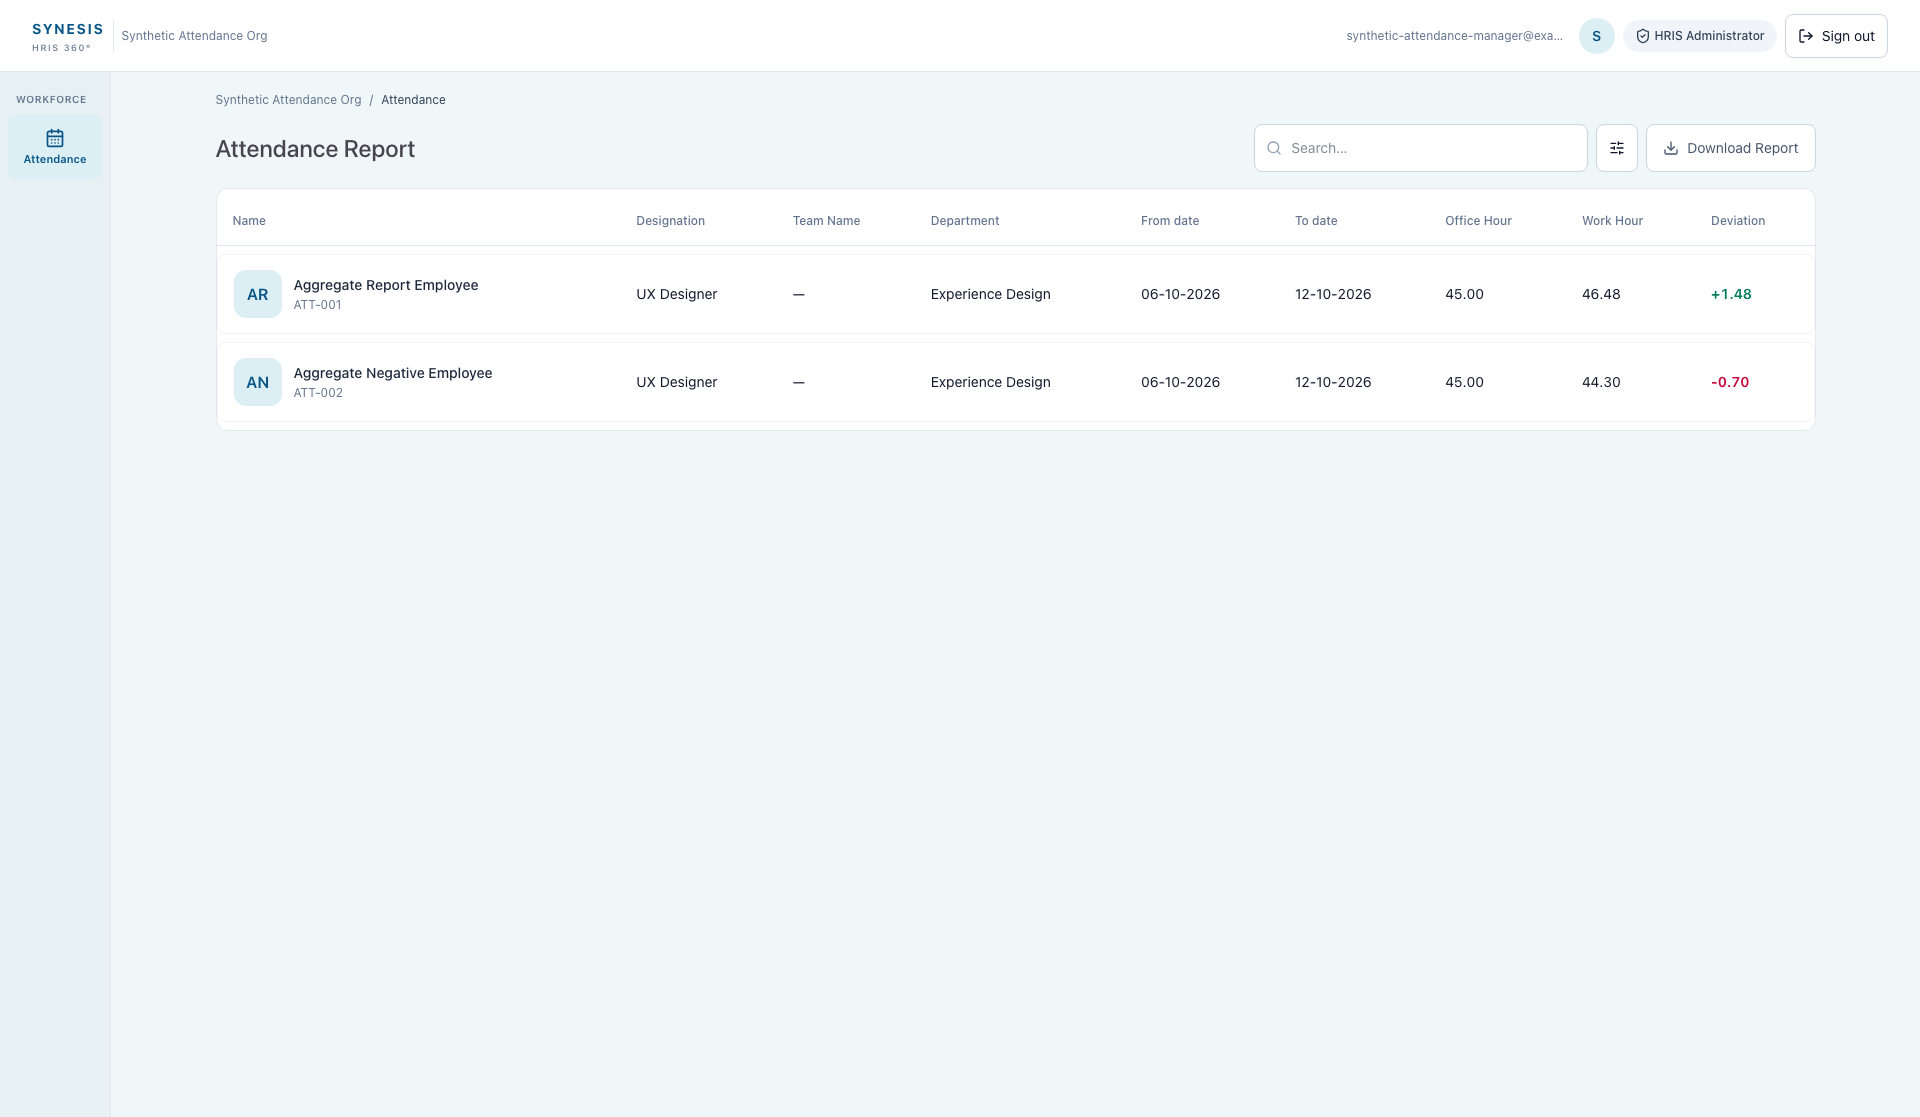
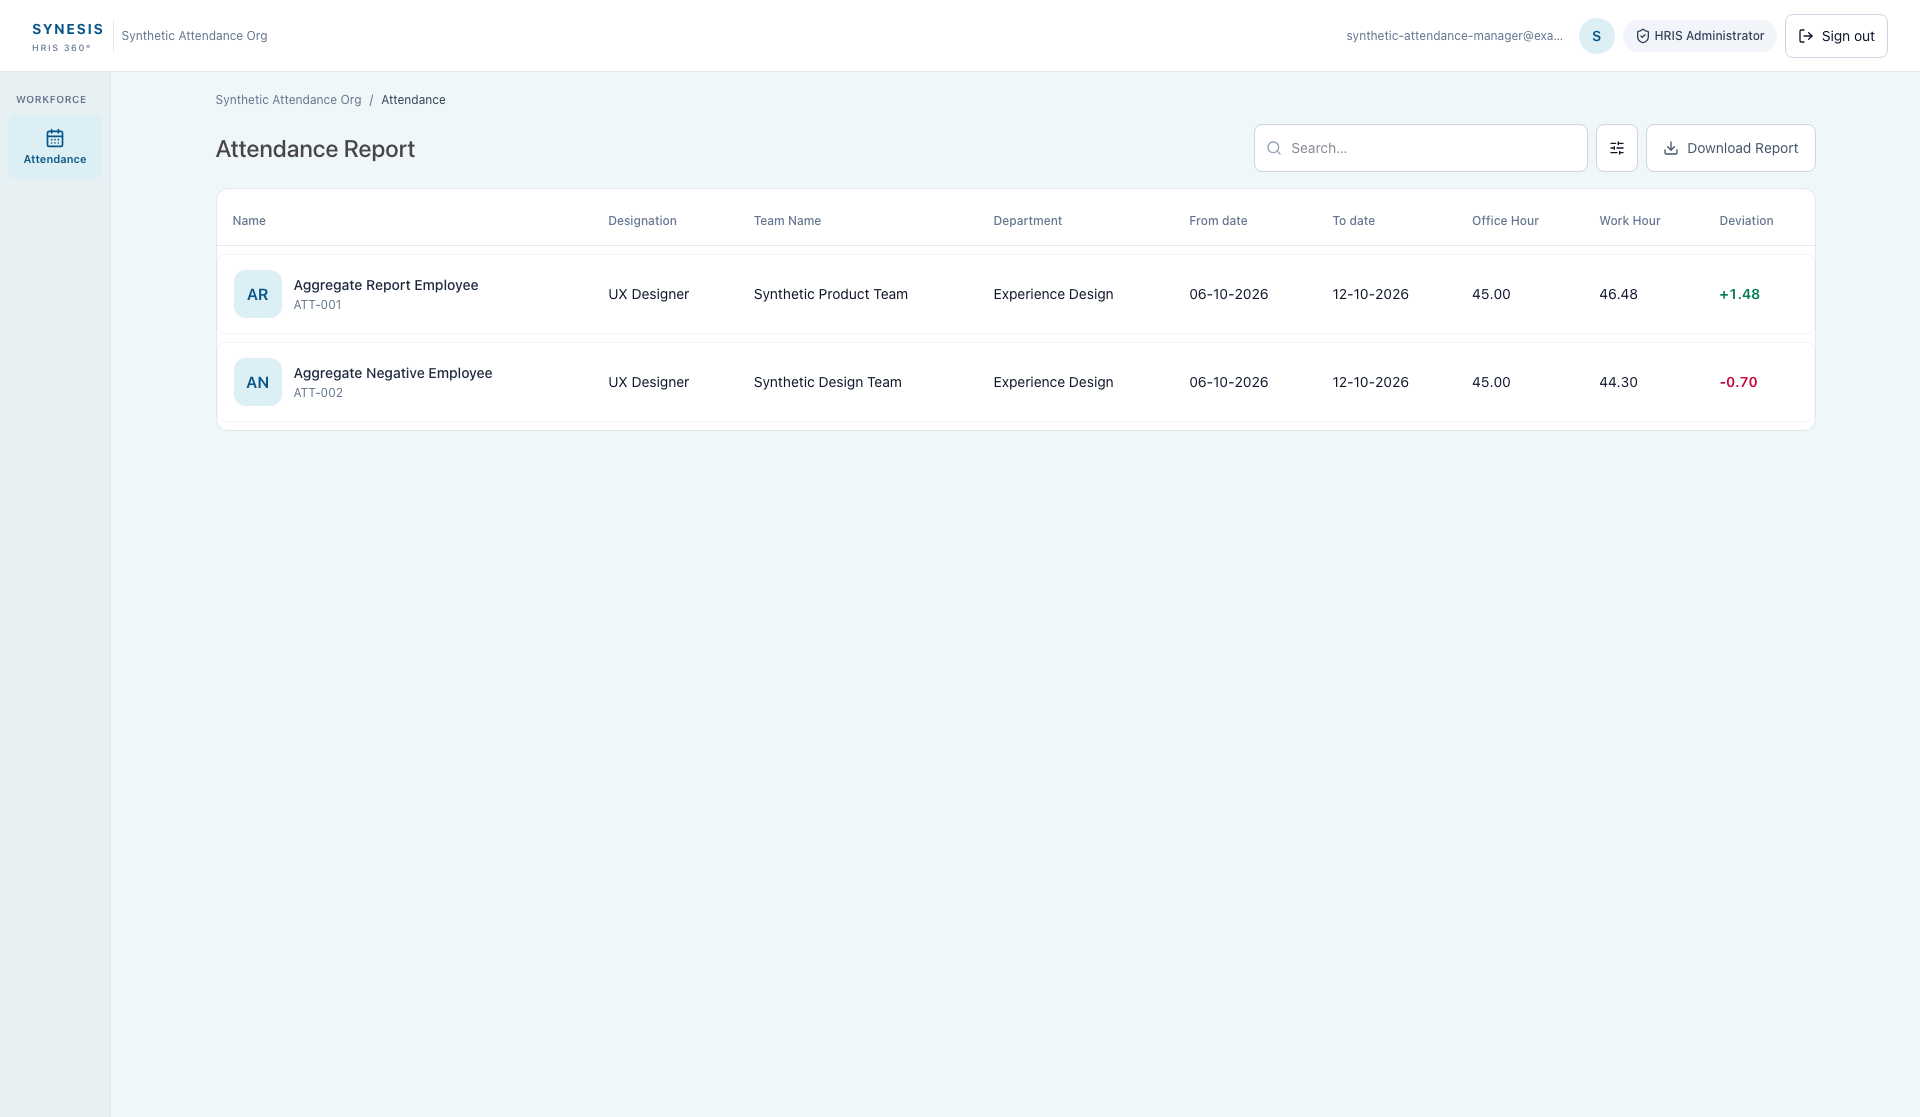
feat: add tenant-safe attendance report team names

diff --git a/tests/browser/attendance-information.spec.ts b/tests/browser/attendance-information.spec.ts
@@ -84,9 +84,9 @@ test('attendance information uses tenant-scoped detail rows and keeps filters, e
       const data = body.p_report === true
         ? [
           { employee_id: syntheticAttendance.employee_id, employee_number: 'ATT-001', employee_name: 'Aggregate Report Employee',
-            department_name: 'Experience Design', designation_title: 'UX Designer', attendance_days: 999, office_hours: 45, working_hours: 46.48, deviation: 1.48 },
+            department_name: 'Experience Design', designation_title: 'UX Designer', team_name: 'Synthetic Product Team', attendance_days: 999, office_hours: 45, working_hours: 46.48, deviation: 1.48 },
           { employee_id: syntheticLateAttendance.employee_id, employee_number: 'ATT-002', employee_name: 'Aggregate Negative Employee',
-            department_name: 'Experience Design', designation_title: 'UX Designer', attendance_days: 999, office_hours: 45, working_hours: 44.3, deviation: -0.7 },
+            department_name: 'Experience Design', designation_title: 'UX Designer', team_name: 'Synthetic Design Team', attendance_days: 999, office_hours: 45, working_hours: 44.3, deviation: -0.7 },
         ]
         : { records: body.p_status && body.p_status !== 'all'
           ? allAttendance.filter(row => row.status === body.p_status) : allAttendance, corrections: correctionRequests };
@@ -181,11 +181,11 @@ test('attendance information uses tenant-scoped detail rows and keeps filters, e
   const positiveRow = reportTable.getByRole('row', { name: /Aggregate Report Employee/ });
   const negativeRow = reportTable.getByRole('row', { name: /Aggregate Negative Employee/ });
   await expect(positiveRow).toContainText('UX Designer');
+  await expect(positiveRow).toContainText('Synthetic Product Team');
   await expect(positiveRow).toContainText('Experience Design');
   await expect(positiveRow).toContainText('45.00');
   await expect(positiveRow).toContainText('46.48');
   await expect(positiveRow).toContainText('+1.48');
-  await expect(positiveRow).toContainText('—');
   await expect(positiveRow.getByRole('cell').last().locator('span')).toHaveClass(/text-emerald-700/);
   await expect(negativeRow).toContainText('44.30');
   await expect(negativeRow).toContainText('-0.70');
@@ -207,7 +207,12 @@ test('attendance information uses tenant-scoped detail rows and keeps filters, e
   await expect.poll(() => attendanceCalls.some(call => call.p_report === true && call.p_start === '2026-10-05')).toBe(true);
   const reportDownload = page.waitForEvent('download');
   await page.getByRole('button', { name: 'Download Report', exact: true }).click();
-  expect((await reportDownload).suggestedFilename()).toMatch(/^attendance-report-.*\.csv$/);
+  const downloadedReport = await reportDownload;
+  expect(downloadedReport.suggestedFilename()).toMatch(/^attendance-report-.*\.csv$/);
+  const reportStream = await downloadedReport.createReadStream();
+  let reportCsv = '';
+  if (reportStream) for await (const chunk of reportStream) reportCsv += chunk.toString();
+  expect(reportCsv).toContain('Synthetic Product Team');
 
   await page.setViewportSize({ width: 375, height: 812 });
   expect(await page.evaluate(() => document.documentElement.scrollWidth)).toBeLessThanOrEqual(376);

diff --git a/src/live/LiveHrisWorkspace.tsx b/src/live/LiveHrisWorkspace.tsx
@@ -397,10 +397,10 @@ function AttendanceReport({ tenantId, canView, canReport, canManage }: { tenantI
     const currentRecords = dataTenantId === tenantId ? records : [];
     if (!currentRecords.length) return;
     const fields = aggregateOnly
-      ? ['employee_name', 'employee_number', 'designation_title', 'department_name', 'attendance_days', 'office_hours', 'working_hours', 'deviation']
+      ? ['employee_name', 'employee_number', 'designation_title', 'team_name', 'department_name', 'attendance_days', 'office_hours', 'working_hours', 'deviation']
       : ['full_name', 'employee_number', 'designation_title', 'department_name', 'attendance_date', 'check_in', 'check_out', 'work_mode', 'status', 'work_hours'];
     const labels = aggregateOnly
-      ? ['Employee', 'Employee number', 'Designation', 'Department', 'Attendance days', 'Office hours', 'Working hours', 'Deviation']
+      ? ['Employee', 'Employee number', 'Designation', 'Team Name', 'Department', 'Attendance days', 'Office hours', 'Working hours', 'Deviation']
       : ['Employee', 'Employee number', 'Designation', 'Department', 'Date', 'Check in', 'Check out', 'Work location', 'Status', 'Working hours'];
     downloadCsv(`attendance-report-${from}-${to}.csv`, labels, currentRecords.map(row => fields.map(field => row[field])));
   }
